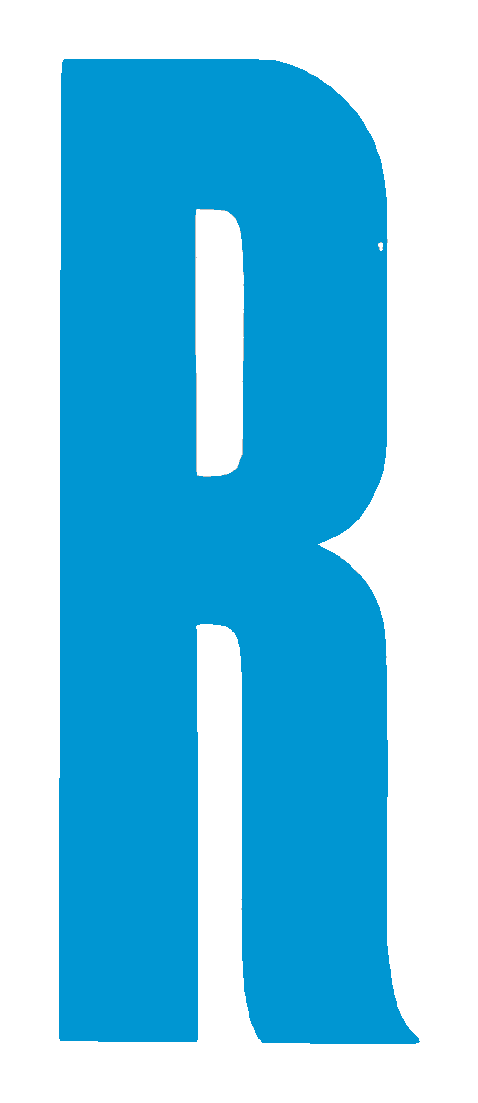
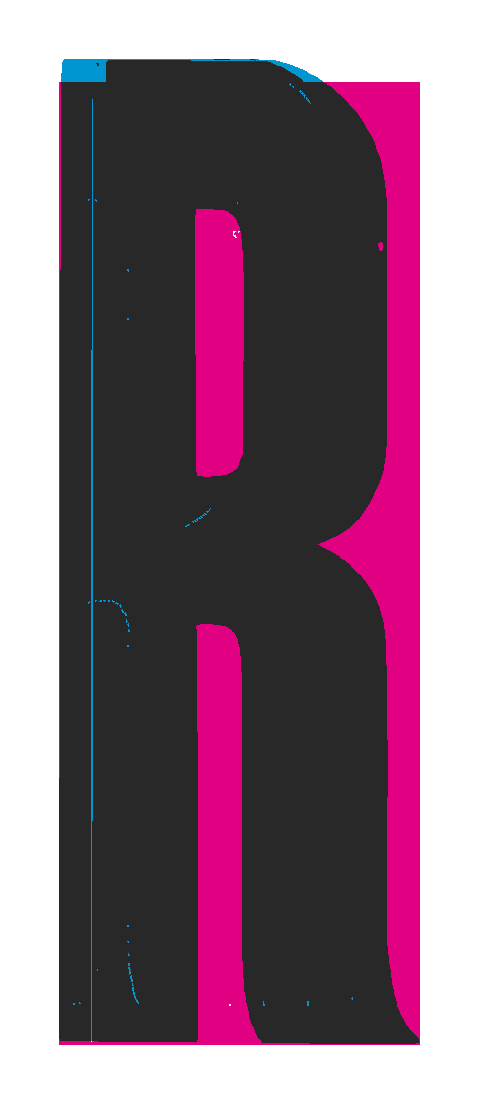
Ingest first Arrow cast of R; painter's-model SVG loader; tests
Arrow 1.1 returned the fifteen-line R as a filled slab plus a stroked
outline and speck paths — IoU 0.79 vs the scan against potrace's 0.99.
svg_to_path now flattens layered SVGs by fill (dark adds, light subtracts,
unfilled ignored) so both engines are compared as net ink. Adds pytest
geometry tests, a `frame` helper for Arrow input variants, and per-attempt
archiving under svg/arrow/attempts/.

Claude-Session: https://claude.ai/code/session_014h5fYGSpTe3JnrT5TCjhry

diff --git a/faces/wood-class-l/proofs/index.html b/faces/wood-class-l/proofs/index.html
@@ -8,6 +8,27 @@
 <figure><img src='R_overlay.png' style='max-width:100%'><figcaption>R_overlay.png</figcaption></figure>
 <figure><img src='R_traces.png' style='max-width:100%'><figcaption>R_traces.png</figcaption></figure>
 <figure><img src='waterfall.png' style='max-width:100%'><figcaption>waterfall.png</figcaption></figure>
+<h2>Trace comparison</h2><pre>{
+  &quot;R&quot;: {
+    &quot;glyph&quot;: &quot;R&quot;,
+    &quot;scan_ink_px&quot;: 282224,
+    &quot;engines&quot;: [
+      &quot;potrace&quot;,
+      &quot;arrow&quot;
+    ],
+    &quot;potrace_iou_scan&quot;: 0.993,
+    &quot;potrace_ink_px&quot;: 283412,
+    &quot;potrace_points&quot;: 152,
+    &quot;potrace_contours&quot;: 3,
+    &quot;arrow_iou_scan&quot;: 0.7904,
+    &quot;arrow_ink_px&quot;: 349880,
+    &quot;arrow_points&quot;: 287,
+    &quot;arrow_contours&quot;: 66,
+    &quot;arrow_iou_potrace&quot;: 0.7933,
+    &quot;arrow_minus_potrace_px&quot;: 69724,
+    &quot;potrace_minus_arrow_px&quot;: 3256
+  }
+}</pre>
 <h2>Provenance</h2><pre>{
   &quot;archive_id&quot;: &quot;bookoftypespecim00barnrich&quot;,
   &quot;title&quot;: &quot;Book of type specimens. Comprising a large variety of superior copper-mixed types, rules, borders, galleys, printing presses, electric-welded chases, paper and card cutters, wood goods, book binding machinery etc., together with valuable information to the craft. Specimen book no.9&quot;,

diff --git a/tools/foundry/outline.py b/tools/foundry/outline.py
@@ -11,11 +11,51 @@ from svgelements import (SVG, Arc, Close, CubicBezier, Line, Move,
                          Path as SvgPath, QuadraticBezier, Shape)
 
 
-def svg_to_path(svg_file: str | Path) -> pathops.Path:
-    """Load every shape in an SVG (transforms applied) into one pathops.Path."""
-    svg = SVG.parse(str(svg_file), reify=True, ppi=72)
+def _fill_kind(el) -> str:
+    """'ink' for dark fills, 'paper' for light fills, 'none' for unfilled (stroke-only)."""
+    fill = getattr(el, "fill", None)
+    if fill is None:
+        return "ink"                      # SVG default fill is black
+    if fill.value is None:
+        return "none"
+    lum = 0.299 * fill.red + 0.587 * fill.green + 0.114 * fill.blue
+    return "ink" if lum < 128 else "paper"
+
+
+def _shape_to_path(p: SvgPath) -> pathops.Path:
     out = pathops.Path()
     pen = out.getPen()
+    open_contour = False
+    for seg in p.segments():
+        if isinstance(seg, Move):
+            if open_contour:
+                pen.closePath()
+            pen.moveTo((seg.end.x, seg.end.y))
+            open_contour = True
+        elif isinstance(seg, Line):
+            pen.lineTo((seg.end.x, seg.end.y))
+        elif isinstance(seg, QuadraticBezier):
+            pen.qCurveTo((seg.control.x, seg.control.y), (seg.end.x, seg.end.y))
+        elif isinstance(seg, CubicBezier):
+            pen.curveTo((seg.control1.x, seg.control1.y), (seg.control2.x, seg.control2.y),
+                        (seg.end.x, seg.end.y))
+        elif isinstance(seg, Arc):
+            for c in seg.as_cubic_curves():
+                pen.curveTo((c.control1.x, c.control1.y), (c.control2.x, c.control2.y),
+                            (c.end.x, c.end.y))
+        elif isinstance(seg, Close):
+            if open_contour:
+                pen.closePath()
+                open_contour = False
+    if open_contour:
+        pen.closePath()
+    return out
+
+
+def svg_shapes(svg_file: str | Path) -> list[tuple[str, pathops.Path]]:
+    """Every shape in document order as (fill_kind, path), transforms applied."""
+    svg = SVG.parse(str(svg_file), reify=True, ppi=72)
+    shapes = []
     for el in svg.elements():
         if isinstance(el, SvgPath):
             p = el
@@ -24,31 +64,34 @@ def svg_to_path(svg_file: str | Path) -> pathops.Path:
         else:
             continue
         p.reify()
-        open_contour = False
-        for seg in p.segments():
-            if isinstance(seg, Move):
-                if open_contour:
-                    pen.closePath()
-                pen.moveTo((seg.end.x, seg.end.y))
-                open_contour = True
-            elif isinstance(seg, Line):
-                pen.lineTo((seg.end.x, seg.end.y))
-            elif isinstance(seg, QuadraticBezier):
-                pen.qCurveTo((seg.control.x, seg.control.y), (seg.end.x, seg.end.y))
-            elif isinstance(seg, CubicBezier):
-                pen.curveTo((seg.control1.x, seg.control1.y), (seg.control2.x, seg.control2.y),
-                            (seg.end.x, seg.end.y))
-            elif isinstance(seg, Arc):
-                for c in seg.as_cubic_curves():
-                    pen.curveTo((c.control1.x, c.control1.y), (c.control2.x, c.control2.y),
-                                (c.end.x, c.end.y))
-            elif isinstance(seg, Close):
-                if open_contour:
-                    pen.closePath()
-                    open_contour = False
-        if open_contour:
-            pen.closePath()
-    return out
+        path = _shape_to_path(p)
+        if path.bounds is None:
+            continue
+        shapes.append((_fill_kind(el), path))
+    return shapes
+
+
+def svg_to_path(svg_file: str | Path) -> pathops.Path:
+    """Flatten an SVG to one ink path using the painter's model: in document
+    order, dark fills add ink, light fills remove it, unfilled shapes are ignored.
+    A single-path potrace SVG passes through unchanged; a layered Arrow SVG
+    (black block + white cut-outs + stroked outline) collapses to its net ink."""
+    ink = pathops.Path()
+    for kind, path in svg_shapes(svg_file):
+        if kind == "none":
+            continue
+        out = pathops.Path()
+        if kind == "ink":
+            if ink.bounds is None:
+                ink = path
+                continue
+            pathops.union([ink, path], out.getPen(), clockwise=False)
+        else:
+            if ink.bounds is None:
+                continue
+            pathops.difference([ink], [path], out.getPen(), clockwise=False)
+        ink = out
+    return ink
 
 
 def svg_viewbox(svg_file: str | Path) -> tuple[float, float, float, float] | None:

diff --git a/tools/foundry/cast.py b/tools/foundry/cast.py
@@ -62,18 +62,50 @@ def cast_potrace(face: Face, glyphs: list[str] | None = None) -> dict:
     return {"face": face.name, "cast": results}
 
 
+def frame(face: Face, glyph: str, size: int = 768, margin: float = 0.2) -> dict:
+    """Re-frame a cut glyph for Arrow: square canvas, `margin` of the side as
+    whitespace, longest ink side scaled to fit. Saved as a variant, never in
+    place of the cut, so every Arrow attempt records exactly what it was shown."""
+    src = face.glyphs / f"{glyph}.png"
+    im = Image.open(src).convert("L")
+    bbox = im.point(lambda v: 255 if v < 128 else 0).getbbox()
+    ink = im.crop(bbox)
+    inner = int(size * (1 - 2 * margin))
+    scale = inner / max(ink.size)
+    ink = ink.resize((max(1, round(ink.width * scale)), max(1, round(ink.height * scale))), Image.LANCZOS)
+    canvas = Image.new("L", (size, size), 255)
+    canvas.paste(ink, ((size - ink.width) // 2, (size - ink.height) // 2))
+    canvas = canvas.point(lambda v: 0 if v < 128 else 255)
+    out_dir = face.glyphs / "variants"
+    out_dir.mkdir(exist_ok=True)
+    out = out_dir / f"{glyph}-sq{size}-m{int(margin * 100)}.png"
+    canvas.save(out)
+    rec = {"glyph": glyph, "variant": str(out.relative_to(face.dir)), "size": size, "margin": margin,
+           "scale": round(scale, 4), "sha256": _sha256(out)}
+    face.log_event("frame", **rec)
+    return rec
+
+
 def cast_arrow_ingest(face: Face, glyph: str, from_svg: str, model: str | None = None,
-                      task_id: str | None = None, creation_id: str | None = None) -> dict:
+                      task_id: str | None = None, creation_id: str | None = None,
+                      input_png: str | None = None) -> dict:
+    """Record an Arrow result. svg/arrow/<glyph>.svg is always the latest attempt;
+    every attempt is also kept under svg/arrow/attempts/ keyed by task id."""
     face.ensure_layout()
     src = Path(from_svg)
-    png = face.glyphs / f"{glyph}.png"
+    png = Path(input_png) if input_png else face.glyphs / f"{glyph}.png"
     dest = face.svg_arrow / f"{glyph}.svg"
     shutil.copyfile(src, dest)
+    attempts = face.svg_arrow / "attempts"
+    attempts.mkdir(exist_ok=True)
+    n = 1 + sum(1 for p in attempts.glob(f"{glyph}-*.svg"))
+    keep = attempts / f"{glyph}-{n:02d}-{(task_id or 'notask')[:8]}.svg"
+    shutil.copyfile(src, keep)
     stats = path_stats(svg_to_path(dest))
-    rec = {"glyph": glyph, "engine": "arrow", "model": model, "task_id": task_id,
-           "creation_id": creation_id, "input": str(png.relative_to(face.dir)),
+    rec = {"glyph": glyph, "engine": "arrow", "attempt": n, "model": model, "task_id": task_id,
+           "creation_id": creation_id, "input": str(png.resolve().relative_to(face.dir.resolve())),
            "input_sha256": _sha256(png), "output": str(dest.relative_to(face.dir)),
-           "viewbox": svg_viewbox(dest), **stats}
+           "kept_as": str(keep.relative_to(face.dir)), "viewbox": svg_viewbox(dest), **stats}
     face.log_event("cast", **rec)
     return rec
 

diff --git a/tools/foundry/cli.py b/tools/foundry/cli.py
@@ -35,7 +35,8 @@ def cast(face: str, glyph: list[str] = typer.Option(None, "--glyph", "-g"),
          from_svg: str = typer.Option(None, "--from", help="(arrow) path to SVG returned by Arrow"),
          model: str = typer.Option(None, help="(arrow) model id"),
          task_id: str = typer.Option(None, help="(arrow) Quiver task id"),
-         creation_id: str = typer.Option(None, help="(arrow) Quiver creation id")):
+         creation_id: str = typer.Option(None, help="(arrow) Quiver creation id"),
+         input_png: str = typer.Option(None, "--input", help="(arrow) the PNG actually sent, if a variant")):
     """Vectorize cut glyphs. potrace runs locally; arrow ingests an SVG the agent fetched via Quiver MCP."""
     from .cast import cast_potrace, cast_arrow_ingest
     f = Face(face)
@@ -44,9 +45,18 @@ def cast(face: str, glyph: list[str] = typer.Option(None, "--glyph", "-g"),
     elif engine == "arrow":
         if not (glyph and len(glyph) == 1 and from_svg):
             raise typer.BadParameter("arrow ingest needs exactly one --glyph and --from <svg>")
-        _out(cast_arrow_ingest(f, glyph[0], from_svg, model=model, task_id=task_id, creation_id=creation_id))
+        _out(cast_arrow_ingest(f, glyph[0], from_svg, model=model, task_id=task_id,
+                               creation_id=creation_id, input_png=input_png))
     else:
         raise typer.BadParameter("engine must be potrace or arrow")
+
+
+@app.command()
+def frame(face: str, glyph: str = typer.Option(..., "--glyph", "-g"),
+          size: int = typer.Option(768), margin: float = typer.Option(0.2)):
+    """Re-frame a cut glyph on a square, margined canvas as an Arrow input variant."""
+    from .cast import frame as _frame
+    _out(_frame(Face(face), glyph, size=size, margin=margin))
 
 
 @app.command()

diff --git a/tests/test_outline.py b/tests/test_outline.py
@@ -1,0 +1,49 @@
+"""Outline parsing and rasterization: the geometry the whole pipeline rests on."""
+
+import numpy as np
+import pathops
+import pytest
+
+from foundry.outline import bbox_of_mask, flatten, path_stats, rasterize, signed_area, svg_to_path
+
+RECT_WITH_HOLE = """<svg xmlns="http://www.w3.org/2000/svg" viewBox="0 0 100 100">
+<g transform="translate(0,100) scale(1,-1)">
+<path d="M10 10 H90 V90 H10 Z M30 30 V70 H70 V30 Z"/>
+</g></svg>"""
+
+
+@pytest.fixture
+def hole_svg(tmp_path):
+    p = tmp_path / "hole.svg"
+    p.write_text(RECT_WITH_HOLE)
+    return p
+
+
+def test_svg_to_path_applies_group_transform(hole_svg):
+    path = svg_to_path(hole_svg)
+    l, t, r, b = path.bounds
+    assert (l, t, r, b) == pytest.approx((10, 10, 90, 90))
+    assert path_stats(path)["contours"] == 2
+
+
+def test_rasterize_punches_counter(hole_svg):
+    mask = rasterize(svg_to_path(hole_svg), (100, 100))
+    assert mask[50, 20]           # in the frame
+    assert not mask[50, 50]       # inside the hole
+    x0, y0, x1, y1 = bbox_of_mask(mask)          # PIL polygon fill is edge-inclusive
+    assert (x0, y0) == (10, 10) and 90 <= x1 <= 91 and 90 <= y1 <= 91
+    assert 6400 - 1600 - 400 < mask.sum() < 6400 - 1600 + 400
+
+
+def test_signed_area_sign_flips_with_orientation():
+    sq = [(0, 0), (10, 0), (10, 10), (0, 10)]
+    assert signed_area(sq) == 100
+    assert signed_area(list(reversed(sq))) == -100
+
+
+def test_flatten_samples_curves():
+    p = pathops.Path()
+    pen = p.getPen()
+    pen.moveTo((0, 0)); pen.curveTo((0, 10), (10, 10), (10, 0)); pen.closePath()
+    polys = flatten(p, steps=8)
+    assert len(polys) == 1 and len(polys[0]) == 1 + 8

diff --git a/tests/test_sort.py b/tests/test_sort.py
@@ -1,0 +1,32 @@
+"""sort: ink height → cap height, baseline at ink bottom, counters keep opposite winding."""
+
+import pathops
+import pytest
+
+from foundry.outline import flatten, signed_area
+from foundry.sort import normalize
+
+
+def _glyph_with_counter():
+    p = pathops.Path()
+    pen = p.getPen()
+    # SVG-style y-down box 200 tall with a hole; outer drawn clockwise on screen
+    pen.moveTo((10, 10)); pen.lineTo((110, 10)); pen.lineTo((110, 210)); pen.lineTo((10, 210)); pen.closePath()
+    pen.moveTo((40, 60)); pen.lineTo((40, 160)); pen.lineTo((80, 160)); pen.lineTo((80, 60)); pen.closePath()
+    return p
+
+
+def test_normalize_scales_to_cap_height_and_baseline():
+    out, meta = normalize(_glyph_with_counter(), cap_height=700, sidebearing=40)
+    l, b, r, t = out.bounds
+    assert (b, t) == pytest.approx((0, 700))
+    assert l == pytest.approx(40)
+    assert meta["scale"] == pytest.approx(3.5)
+    assert r - l == pytest.approx(350)
+
+
+def test_normalize_outer_ccw_counter_cw():
+    out, _ = normalize(_glyph_with_counter(), cap_height=700, sidebearing=40)
+    areas = sorted((signed_area(poly) for poly in flatten(out)), key=abs, reverse=True)
+    assert areas[0] > 0     # outer contour counter-clockwise (UFO/PostScript convention)
+    assert areas[1] < 0     # counter runs the other way, so it punches through

diff --git a/tests/conftest.py b/tests/conftest.py
@@ -1,0 +1,4 @@
+import sys
+from pathlib import Path
+
+sys.path.insert(0, str(Path(__file__).resolve().parents[1] / "tools"))

diff --git a/CLAUDE.md b/CLAUDE.md
@@ -31,4 +31,10 @@ revival's complete record, from source scan to proof sheet.
 - Arrow is called through Quiver's MCP server. Every Arrow cast must also run
   the potrace control trace on the same input — it's the research instrument,
   not optional QA.
-- Greenfield: no test/build commands exist yet. Add them here when `tools/` lands.
+- Setup: `uv sync` (Python 3.12 via uv; potrace via `brew install potrace`).
+- Tests: `.venv/bin/pytest` — geometry tests for outline parsing and sort normalization.
+- Run a stage: `.venv/bin/foundry <stage> <face> [--glyph G]`; `foundry --help` lists all six.
+  Rebuild a face end to end: `cut → cast → sort → matrix → proof` (fetch once).
+- Arrow casts: the agent calls `mcp__quiver__create_vectorization` (model `arrow-1.1`)
+  with the cut PNG, polls `get_task`, saves the SVG, then `foundry cast --engine arrow --from <svg>`.
+  Credits are scarce — never call Arrow on an input you haven't looked at first.
